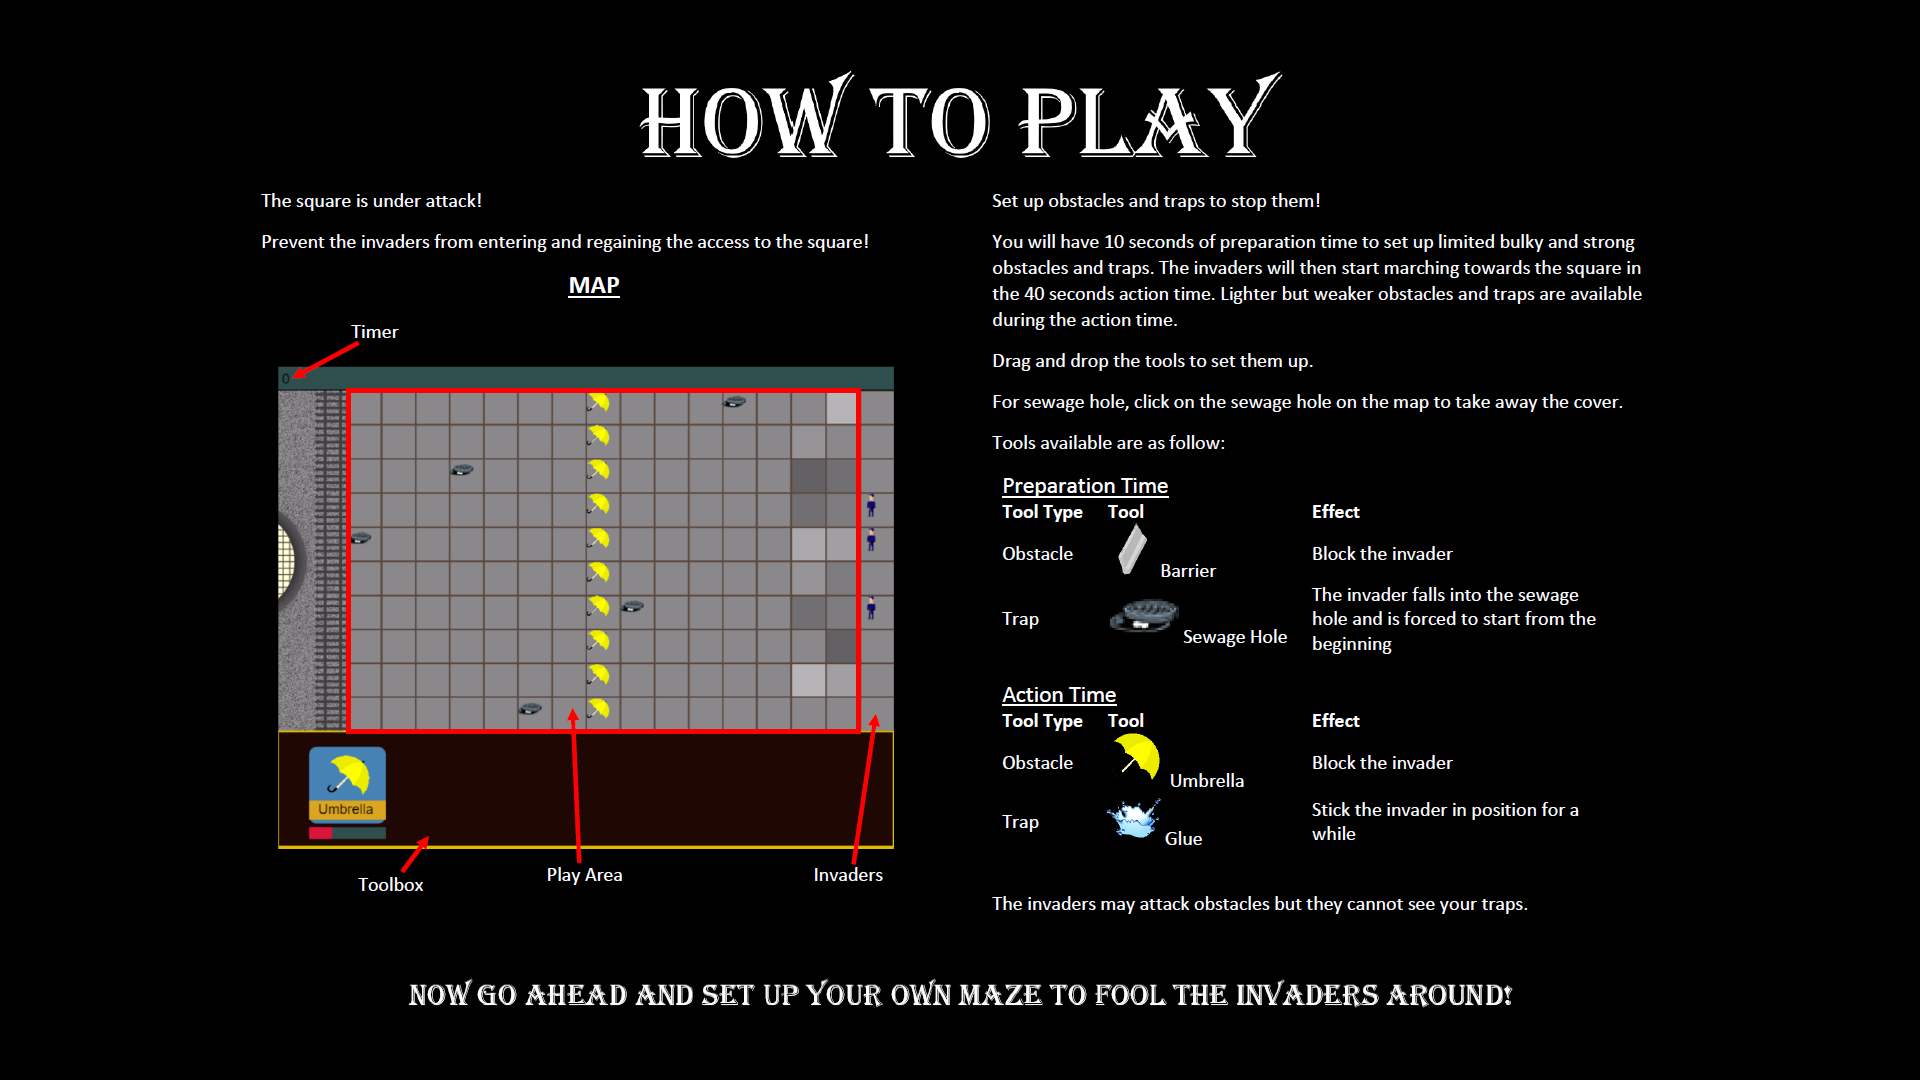
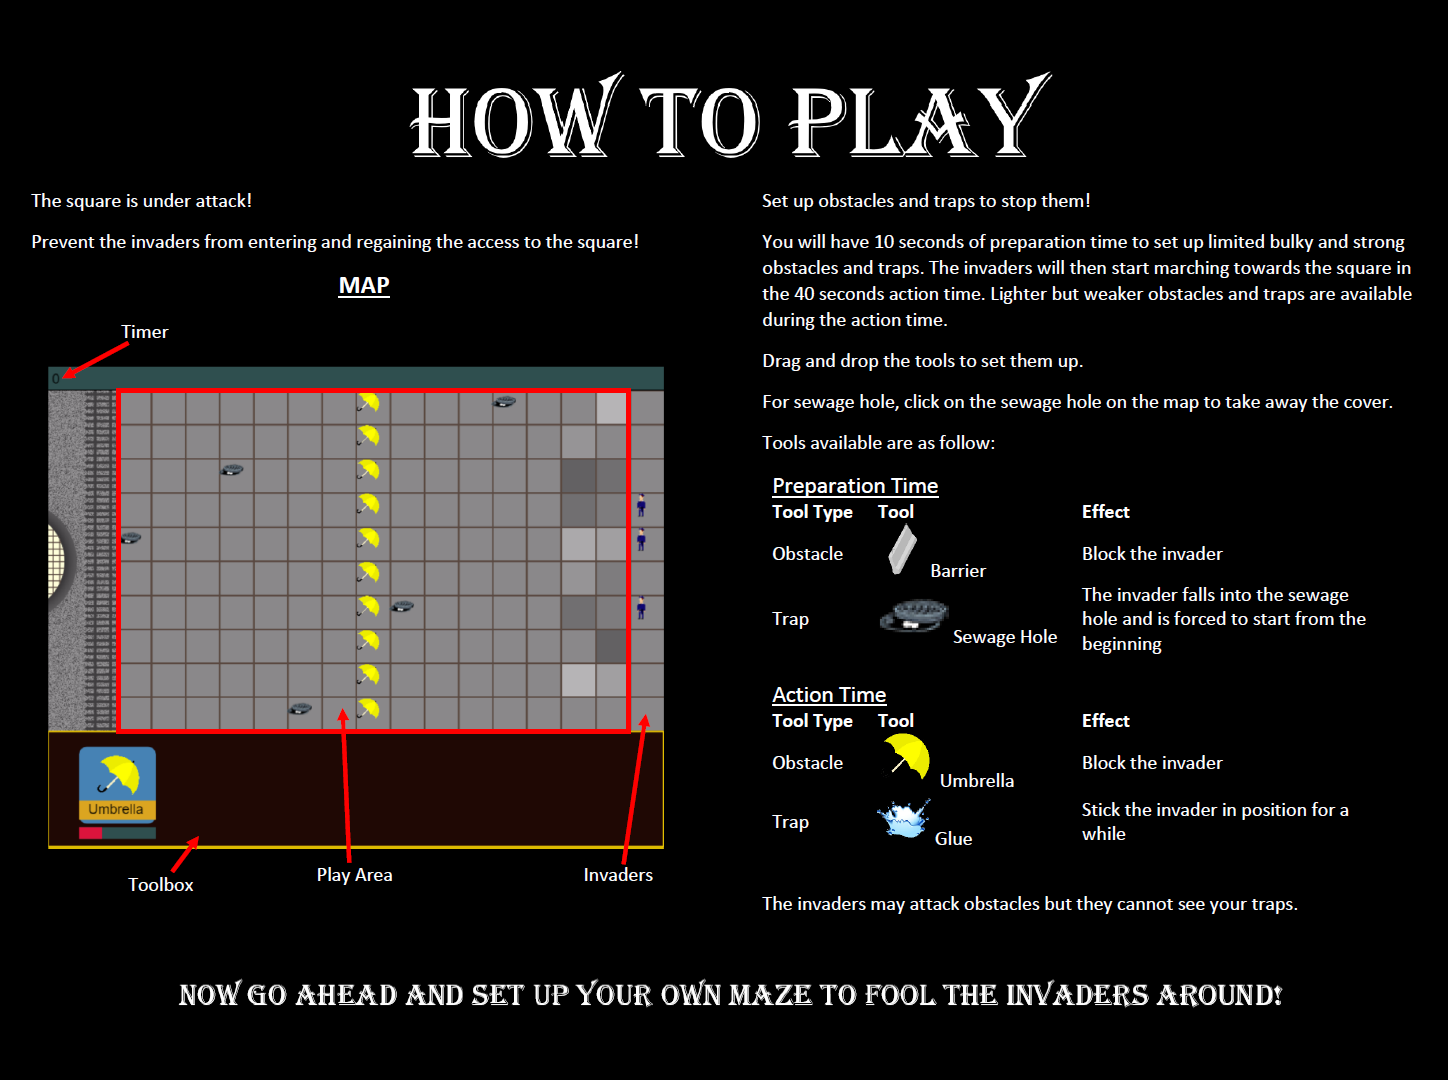
how to play

diff --git a/js/gameStartEndAnimation.js b/js/gameStartEndAnimation.js
@@ -4,6 +4,7 @@ win = false;
 firstStart = true;
 
 var welcome = true;
+var howToPlay = false;
 var replay = false;
 
 var gra1= 0;
@@ -133,11 +134,61 @@ function gameStartAnimation() {
             c.textAlign = 'center';
             c.fillStyle = '#fff';
             c.fillText(text, middle, textLine);
+            textLine-=30;
         }
     }
     // intro
+    textLine+=60;
+
+    var sample_text = "How To Play";
+    var text = sample_text.split("").join("");
+    textLine+=30;
+    c.font = 'lighter italic 15pt Calibri';
+    c.textAlign = 'center';
+    c.fillStyle = '#fff';
+    c.fillText(text, middle, textLine);
+
+    textLine-=30;
+    if (mouse.x<(mapStartX+middle+75) && mouse.x>(mapStartX+middle-175)) {
+        if (mouse.y<(textLine+30) && mouse.y>textLine) {
+            if (upX<(mapStartX+middle+55) && upX>(mapStartX+middle-145)){
+                if (upY<(textLine+30) && upY>textLine) {
+                    upX=0;
+                    upY=0;
+                    howToPlay=true;
+                    soundPlay("click");
+                }
+            }
+            c.textAlign = 'center';
+            c.fillStyle = '#000';
+            c.fillRect(middle-75, textLine,150,50);
+
+            var sample_text = "How To Play";
+            var text = sample_text.split("").join("");
+            textLine+=30;
+            c.font = 'Bold italic 15pt Calibri';
+            c.textAlign = 'center';
+            c.fillStyle = '#fff';
+            c.fillText(text, middle, textLine);
+        }
+    }
 }
 
+function gameHowToPlayAnimation() {
+    c.drawImage(howToPlayImg,0,0,canvas.width, canvas.width/1.44);
+    if (mouse.x<(mapStartX+canvas.width) && mouse.x>(mapStartX)) {
+        if (mouse.y < canvas.height && mouse.y > 0) {
+            if (upX < (mapStartX+canvas.width) && upX > (mapStartX)) {
+                if (upY < canvas.height && upY > 0) {
+                    upX = 0;
+                    upY = 0;
+                    howToPlay = false;
+                    soundPlay("click");
+                }
+            }
+        }
+    }
+}
 
 function gameEndAnimation() {
     var middle = 400;

diff --git a/js/mouse.js b/js/mouse.js
@@ -56,3 +56,7 @@ window.addEventListener('mousedown', function(e){handleMouseDown(e);})
 window.addEventListener('mousemove', function(e){handleMouseMove(e);})
 window.addEventListener('mouseup', function(e){handleMouseUp(e);})
 window.addEventListener('mouseout', function(e){handleMouseOut(e)})
+
+window.addEventListener('resize', function() {
+    mapStartX = (innerWidth-canvas.width)/2;
+})

diff --git a/js/gameFrame.js b/js/gameFrame.js
@@ -14,7 +14,9 @@ function newGame() {
     setInterval(
         function() {
             c.clearRect(0, 0, innerWidth, innerHeight);
-            if (welcome) {
+            if (howToPlay == true) {
+                gameHowToPlayAnimation();
+            } else if (welcome) {
                 gameStartAnimation();
             } else {
                 if (firstStart == true)

diff --git a/js/canvas.js b/js/canvas.js
@@ -17,6 +17,9 @@ var c = canvas.getContext('2d');
 var map = new Image();
 map.src= "img/tmp_bg.jpg";
 
+var howToPlayImg = new Image();
+howToPlayImg.src= "img/howToPlay_30sAttack.png";
+
 //soundBackground
 var soundBackground = document.getElementById("soundBackground");;
 
